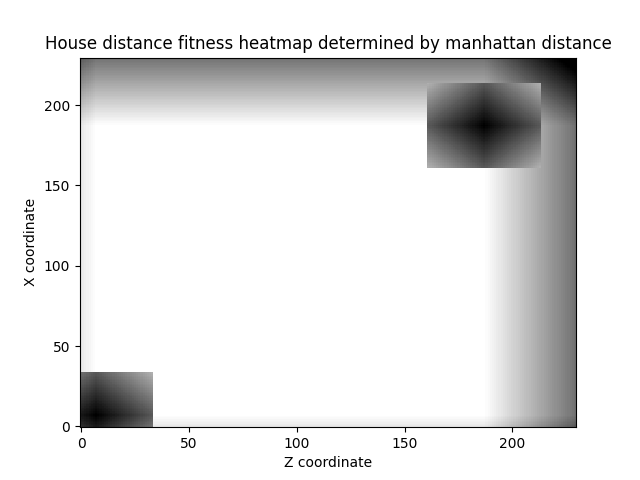
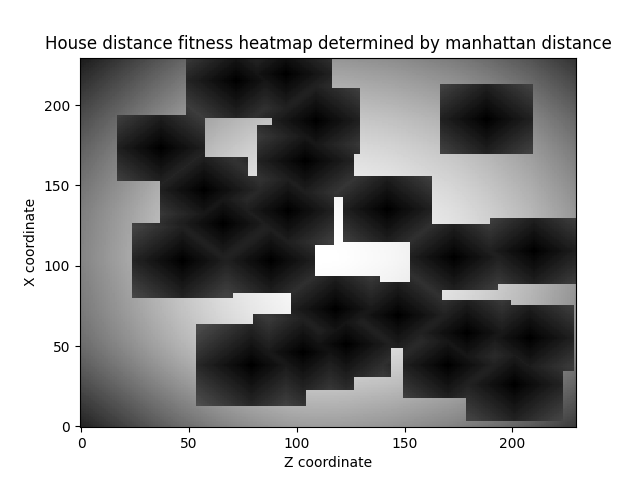
Added some GA override to ensure consistent results

diff --git a/main.py b/main.py
@@ -9,7 +9,7 @@ from classes.ENUMS.biome_ids import biome_regions
 from classes.ENUMS.block_codes import block_codes
 from classes.Timer import Timer
 from classes.building_locations import BuildingLocations
-from classes.Graph import graph, print_all_fitness_graphs
+from classes.Graph import add_mock_location, graph, print_all_fitness_graphs
 from classes.http_interface import get_world_state
 from classes.Location_Genome import LocationGenome
 from classes.Population import Population
@@ -101,17 +101,20 @@ def remove_foliage(g: graph, buildings: BuildingLocations):
     x_value_min = max(x_min, AREA[0])
 
     for x_value in range(x_value_min, x_value_max):
-        if x_value == x_value_min or x_value % 50 == 0 :
-            print(f"Foliage removed {100*(x_value - x_value_min)/(x_value_max - x_value_min):.0f}%")
+        if x_value == x_value_min or x_value % 50 == 0:
+            print(
+                f"Foliage removed {100*(x_value - x_value_min)/(x_value_max - x_value_min):.0f}%"
+            )
         for z_value in range(max(x_min, AREA[1]), min(z_max, AREA[3])):
             for i in range(FOLIAGE_CLEARING_HEIGHT):
-                placeBlockBatched(
-                    x_value,
-                    g.tile_map[x_value][z_value].z + i,
-                    z_value,
-                    block_codes.AIR.value,
-                    BLOCK_BATCH_SIZE,
-                )
+                if g.tile_map[x_value][z_value].material != block_codes.AIR.value:
+                    placeBlockBatched(
+                        x_value,
+                        g.tile_map[x_value][z_value].z + i,
+                        z_value,
+                        block_codes.AIR.value,
+                        BLOCK_BATCH_SIZE,
+                    )
 
     teleport_player(x_value=x_min, y_value=100, z_value=z_min)
 
@@ -153,23 +156,101 @@ def enable_print():
 
 
 @Timer(text="Program executed ran in {:.2f} seconds")
-def main(debug=False, removefoliage=True):
+def main(debug=False, removefoliage=True, skipGA=True, printFitnessGraphs=True):
     print("Starting Program")
-
     if not debug:
         block_print()
+
     g_start = get_world_state(area=AREA)
+    if skipGA:
+        buildings = override_ga()
+    else:
 
-    # print_all_fitness_graphs(g=g_start)
-    buildings = run_epochs(g_start)
-    remove_overlapping_buildings(buildings)
-    if removefoliage:
-        remove_foliage(g=g_start, buildings=buildings)
+        buildings = run_epochs(g_start)
+        remove_overlapping_buildings(buildings)
 
+    # if removefoliage:
+    #     remove_foliage(g=g_start, buildings=buildings)
+
+    if printFitnessGraphs:
+        print("Calculating Fitness Maps")
+        for location in buildings.locations:
+            add_mock_location(
+                g=g_start,
+                building_radius=location.building_radius,
+                location=(location.x, location.z),
+            )
+        print_all_fitness_graphs(g=g_start)
+
+    determine_village_biome(locations=buildings)
     buildings.paint_buildings()
 
     if not debug:
         enable_print()
+
+
+def override_ga() -> BuildingLocations:
+    """Skips GA to use a predetermined list of locaiton coordinates."""
+    override_locations = [
+        (155, 148),
+        (79, 139),
+        (122, 203),
+        (109, 147),
+        (85, 228),
+        (160, 82),
+        (136, 64),
+        (108, 232),
+        (214, 39),
+        (131, 86),
+        (201, 204),
+        (60, 116),
+        (70, 160),
+        (117, 178),
+        (101, 116),
+        (183, 51),
+        (186, 118),
+        (92, 51),
+        (192, 71),
+        (223, 122),
+        (221, 68),
+        (50, 186),
+        (116, 59),
+    ]
+    override_radii = [
+        7,
+        7,
+        7,
+        8,
+        10,
+        7,
+        7,
+        8,
+        9,
+        7,
+        8,
+        10,
+        7,
+        9,
+        7,
+        7,
+        7,
+        12,
+        7,
+        7,
+        7,
+        7,
+        10,
+    ]
+    buildings = BuildingLocations(world_slice=WorldSlice(AREA))
+    for index, location in enumerate(override_locations):
+        location = LocationGenome(
+            graph_space=(AREA[2], AREA[3]),
+            grid_location=location,
+            building_radius=override_radii[index],
+        )
+        buildings.add_building(location)
+
+    return buildings
 
 
 def remove_overlapping_buildings(buildings):
@@ -216,5 +297,26 @@ if __name__ == "__main__":
         help="Remove Folliage",
         default=True,
     )
+
+    parser.add_argument(
+        "--skipga",
+        metavar="path",
+        required=False,
+        help="Remove Folliage",
+        default=True,
+    )
+
+    parser.add_argument(
+        "--savefitnessgraphs",
+        metavar="path",
+        required=False,
+        help="Save fitness graphs to image directory",
+        default=True,
+    )
     args = parser.parse_args()
-    main(debug=args.debug, removefoliage=args.removefoliage)
+    main(
+        debug=args.debug,
+        removefoliage=args.removefoliage,
+        skipGA=args.skipga,
+        printFitnessGraphs=args.savefitnessgraphs,
+    )

diff --git a/constants.py b/constants.py
@@ -11,8 +11,8 @@ BUILDING_DISTANCE_WEIGHTING: float = 2
 FLATNESS_FITNESS_WEIGHTING: float = 1
 DEFAULT_MUTATION_RATE: float = 1 / 6
 DEFAULT_POPULATION_SIZE: int = 5
-GENERATIONS: int = 100
-BUILDING_NUMBER: int = 10
+GENERATIONS: int = 20
+BUILDING_NUMBER: int = 50
 POPULATION_SIZE: int = 100
 AREA: Tuple[int, int, int, int] = (
     0,
@@ -25,9 +25,10 @@ WATER_SEARCH_RADIUS: int = (
 )  # How far to search from building location for water, should be larger than MAX_BUILDING_RADIUS
 MAXIMUM_WATER_DISTANCE_PENALTY: int = MAX_BUILDING_RADIUS
 MAXIMUM_HOUSE_DISTANCE_PENALTY: int = max(AREA[2], AREA[3])
+
 IMAGE_DIR_FOLD: str = "data/images"
 
-USE_BFS_WITH_LOCATION_COUNT = 12 #Set the number of properties BFS is used, above this number MCTS is used.  Set to -1 if want MCTS all the time...
+USE_BFS_WITH_LOCATION_COUNT = 12  # Set the number of properties BFS is used, above this number MCTS is used.  Set to -1 if want MCTS all the time...
 MCTS_TIME_LIMIT_SECONDS: int = 120
 
 DEBUG_DRAW_WORKINGS: bool = False  # yellow/orange-first in frontier, light blue-candidate, NOT_POSSIBLE: Gray-drop or black
@@ -50,7 +51,7 @@ RANDOM_SEED: int = 10
 
 
 # Dictionary mapping biome ID to internal biome regional id
-BIOME_MAP_DICTIONARY: Dict[int,int] = dict(
+BIOME_MAP_DICTIONARY: Dict[int, int] = dict(
     {
         4: 1,
         18: 1,
@@ -105,8 +106,6 @@ ABORT_SEARCH_FOR_SITE_AFTER_ROUTE_NOT_FOUND_LIMIT: int = 4
 MAX_HEIGHT_DROP: int = 1
 MAX_DEPTH: int = 500
 AREA_EXPANDED_MARGIN: int = 5
-
-
 
 
 FOLIAGE_CLEARING_HEIGHT: int = 20

diff --git a/classes/Graph.py b/classes/Graph.py
@@ -349,17 +349,17 @@ def run_bounded_fitness_for_all_coords(
 ):
     fitness_map = []
 
-    add_mock_location(
-        g=g,
-        building_radius=building_radius,
-        location=(20, 20),
-    )
+    # add_mock_location(
+    #     g=g,
+    #     building_radius=building_radius,
+    #     location=(20, 20),
+    # )
 
-    add_mock_location(
-        g=g,
-        building_radius=building_radius,
-        location=(200, 200),
-    )
+    # add_mock_location(
+    #     g=g,
+    #     building_radius=building_radius,
+    #     location=(200, 200),
+    # )
 
     for x_value in range(building_radius, g.x - building_radius):
         tile = []
